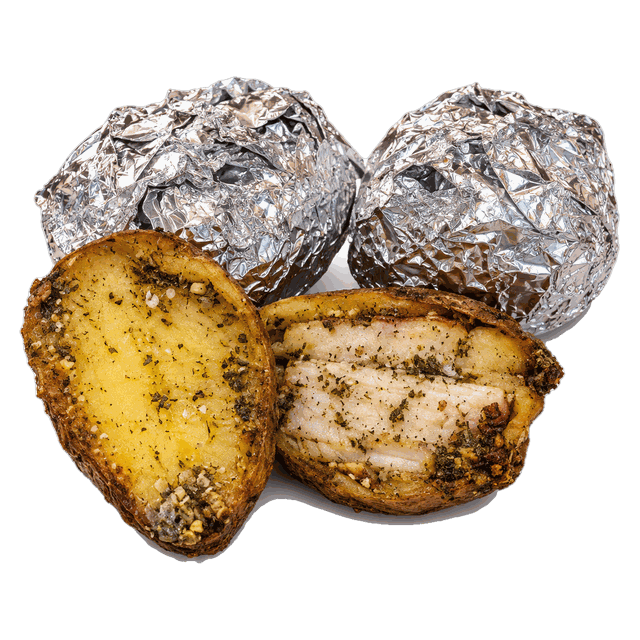
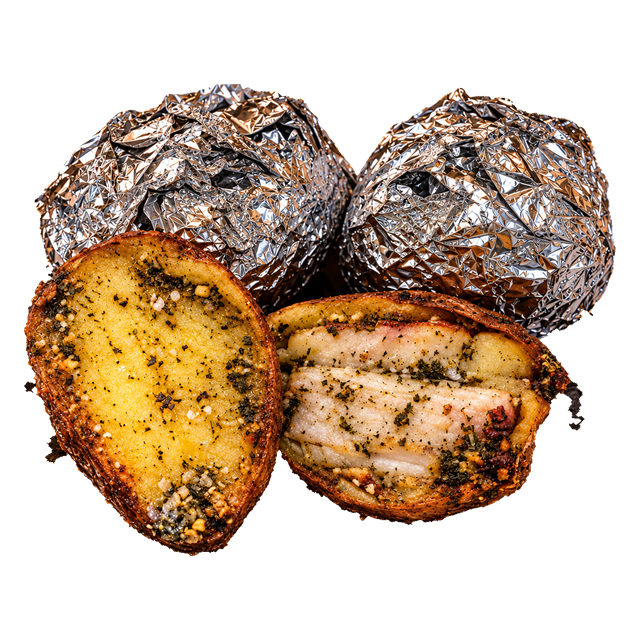
Нове фото картоплі з салом і ключ -Specks
Знімок на чорному: дві картоплини у фользі й дві половинки з салом
усередині. Різався тим самим режимом -Dark, але виліз два дефекти.

У фользі зʼявилися наскрізні отвори. Глибокі тіньові складки на
чорному фоні теж виглядають як фон, а що замкнені — їх прибирало
правило дірок. Лікується парою -Holes 99 і -DarkMax 26: перше вимикає
прибирання замкнених островів, друге звужує поняття «чорний».

Під товаром лишалося відображення з глянцевого столу. Заливка його не
чіпає — воно не кольору фону, — і на сайті воно читалося як крихти під
стравою. Додано ключ -Specks: викидає окремі острівці збережених
пікселів, менші за відсоток кадру. Тут знадобилося 2, за замовчуванням
0.05 — дрібні цятки.

Ключ треба застосовувати з оглядкою: усе дрібне й відокремлене зникне,
разом із гілочкою зелені чи шматком гарніру збоку. У README про це
сказано окремо.

Перевірено накладанням на колір картки сайту, а не на шахматку:
відображення пішло повністю, фольга ціла.

diff --git a/tools/README.md b/tools/README.md
@@ -113,3 +113,33 @@ powershell -ExecutionPolicy Bypass -File tools\cutout.ps1 `
 знайде його — під прозорими пікселями зазвичай чорний — і зробить їх
 непрозорими. Перевірено на вирізці: заповнення підскочило з 57% до 86%,
 навколо мʼяса зʼявився чорний квадрат.
+
+### Відблиски й відображення
+
+Глянцевий стіл дає під товаром відображення, мокра дошка — бризки.
+Заливка їх не чіпає: вони не кольору фону. На сайті це читається як
+бруд під стравою.
+
+Ключ `-Specks` викидає окремі острівці збережених пікселів, менші за
+вказаний відсоток кадру. За замовчуванням 0.05 — прибирає дрібні
+цятки. Для сильного відображення доводиться піднімати:
+
+```
+powershell -ExecutionPolicy Bypass -File tools\cutout.ps1 `
+  -In "kartoplya.png" -Out "photo\kartoplya-salo.png" `
+  -Dark -DarkMax 26 -Holes 99 -Specks 2
+```
+
+Обережно: ключ викидає все дрібне й відокремлене. Якщо у страви є
+деталь, що не торкається основної маси — гілочка, шматок гарніру
+збоку, — вона теж зникне. Перевіряйте очима.
+
+### Фольга, глянець та інше темне всередині товару
+
+У фольги глибокі тіньові складки, і на чорному фоні вони теж
+вважаються фоном. Оскільки вони замкнені, їх прибирає правило дірок —
+і у фользі зʼявляються наскрізні отвори.
+
+Лікується двома ключами: `-Holes 99` вимикає прибирання замкнених
+островів, а `-DarkMax 26` звужує поняття «чорний» так, щоб складки
+лишилися товаром.
